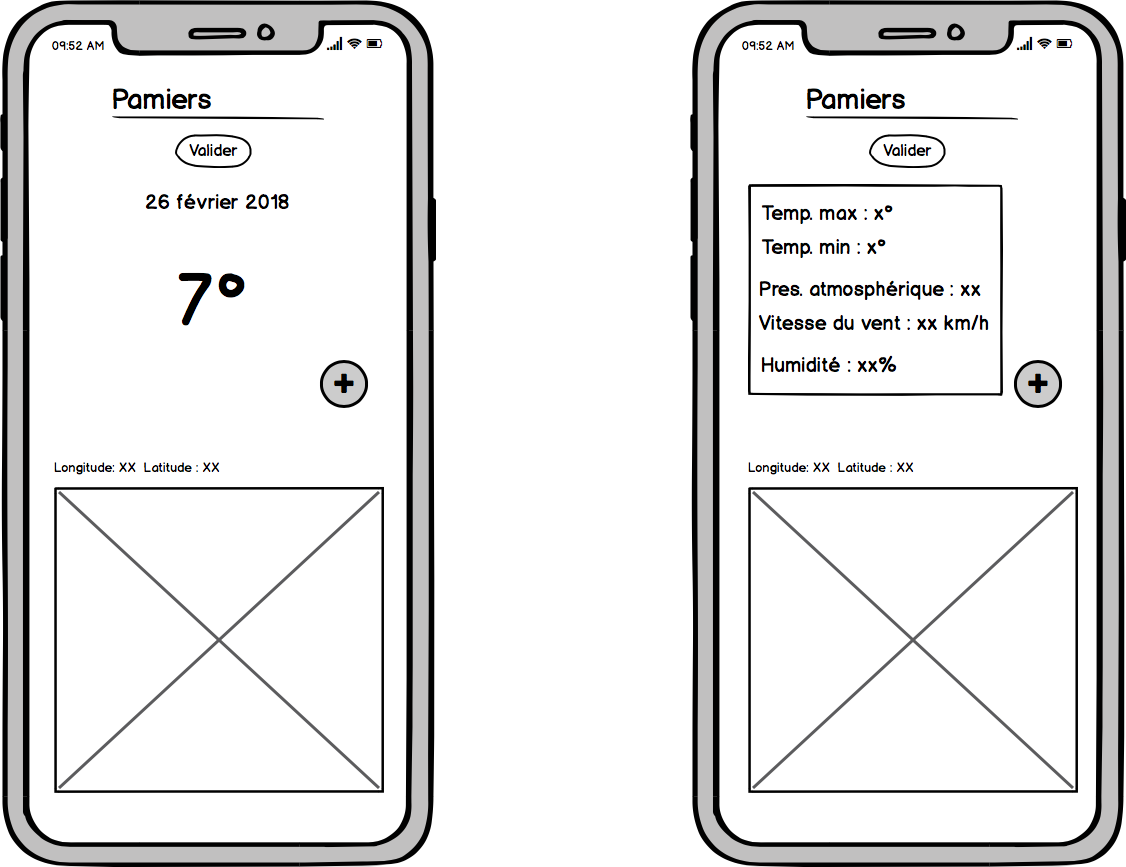
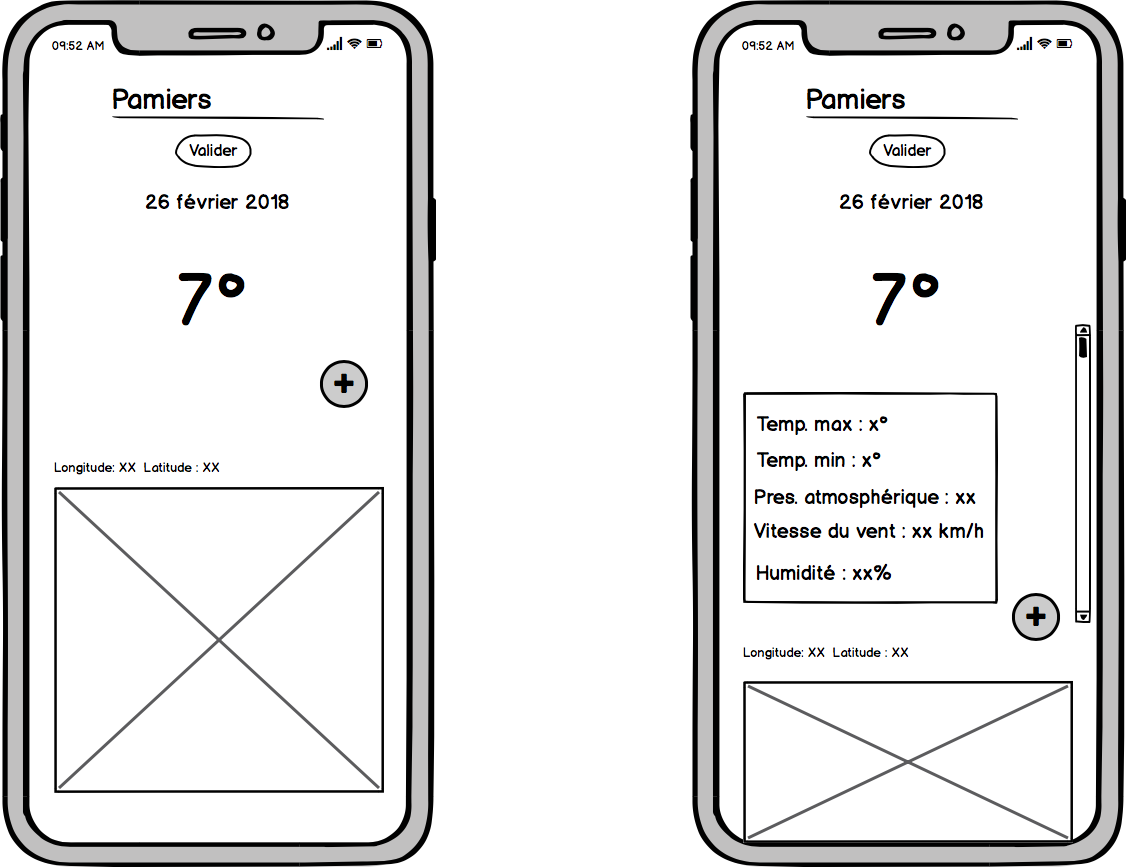
mise en place du responsive

Changed region(s): [[0.6528, 0.1869, 0.9947, 0.9965], [0.746, 0.8408, 0.7771, 0.872]]

diff --git a/JS/app.js b/JS/app.js
@@ -1,0 +1,65 @@
+// Date qui se met à jour
+moment.locale("fr");
+$("#date").text(moment().format('LL'));
+
+// Afficher la carte et la position
+$("#valider").click(function() {
+  var ville = $("#ville").val();
+  if (ville != ' ') {
+      $.ajax({
+          url: "http://api.openweathermap.org/data/2.5/weather?q="+ ville +"&units=metric&lang=fr&appid=a98ee53cd7e7fdf70c48f4e96d5e60da",
+          type: "Get",
+          dataType: "jsonp",
+          success: function (data) {
+            var resultat = "http://api.openweathermap.org/data/2.5/weather?q="+ ville +"&units=metric&lang=fr&appid=a98ee53cd7e7fdf70c48f4e96d5e60da"
+              window.fetch(resultat)
+                  .then(reponse => reponse.json())
+                  .then(reponseJson => $("#temperature").text(parseInt(reponseJson.main.temp)))
+
+              window.fetch(resultat)
+                  .then(reponse => reponse.json())
+                  .then(reponseJson => $("#tempMax").text(reponseJson.main.temp_max))
+
+              window.fetch(resultat)
+                  .then(reponse => reponse.json())
+                  .then(reponseJson => $("#tempMin").text(reponseJson.main.temp_min))
+
+              window.fetch(resultat)
+                  .then(reponse => reponse.json())
+                  .then(reponseJson => $("#presAtmos").text(reponseJson.main.pressure))
+
+              window.fetch(resultat)
+                  .then(reponse => reponse.json())
+                  .then(reponseJson => $("#vent").text(reponseJson.wind.speed))
+
+              window.fetch(resultat)
+                  .then(reponse => reponse.json())
+                  .then(reponseJson => $("#humidite").text(reponseJson.main.humidity))
+
+              window.fetch(resultat)
+                  .then(reponse => reponse.json())
+                  .then(reponseJson => $("#longitude").text(reponseJson.coord.lon))
+
+              window.fetch(resultat)
+                  .then(reponse => reponse.json())
+                  .then(reponseJson => $("#latitude").text(reponseJson.coord.lat))
+          }
+      });
+  }
+
+});
+
+
+
+$("#btnadd").hide();
+
+$(function() { 
+	var windowWidth= $(window).width();
+	if($(window).width () < 700){
+        $("#donneesMeteo").hide();
+        $("#btnadd").show();
+        $("#btnadd").click(function() {
+            $("#donneesMeteo").toggle();
+        });
+    }   
+});

diff --git a/index.html b/index.html
@@ -5,7 +5,6 @@
     <title>WeatherMap</title>
     <meta http-equiv="Content-Type" content="text/html; charset=iso-8859-1" />
     <meta name="viewport" content="width=device-width, initial-scale=1">
-    <meta name="viewport" content="initial-scale=1.0, user-scalable=no" />
     <link rel="stylesheet" href="https://cdnjs.cloudflare.com/ajax/libs/materialize/0.100.2/css/materialize.min.css">
     <link rel="stylesheet" type="text/css" href="CSS/index.css" />
 </head>
@@ -29,18 +28,20 @@
                 <p>Vitesse du vent : <span id="vent"></span> km/h</p>
                 <p>Humidité : <span id="humidite"></span> %</p>
             </div>
-        </div>
-        
+        </div>    
+    </div>
+    <div class="container">
+        <a class="btn-floating btn-large waves-effect waves-light" id="btnadd"><i class="material-icons">+</i></a>
     </div>
     
     <div class="container" id="carte">
         <p>Longitude : <span id="longitude"></span> &nbsp; &nbsp; &nbsp;Latitude : <span id="latitude"></span></p>
-        <iframe src="http://{s}.maps.owm.io:8099/5a956bbe6b678e000159daea/{z}/{x}/{y}?hash=3f47360e8e474eae28354f25aa731948"></iframe>
+        
     </div>
     <script type="text/javascript" src="https://ajax.googleapis.com/ajax/libs/jquery/3.1.0/jquery.min.js"></script>
     <script src="https://cdnjs.cloudflare.com/ajax/libs/materialize/0.100.2/js/materialize.min.js"></script>
-    <!-- <script async defer src="https://maps.googleapis.com/maps/api/js?key=AIzaSyBfTBVZ42XfpGFh9I-L8H9x1bi9hZKI0nU&callback=initMap" type="text/javascript"></script> -->
+    <script async defer src="https://maps.googleapis.com/maps/api/js?key=AIzaSyBfTBVZ42XfpGFh9I-L8H9x1bi9hZKI0nU&callback=initMap" type="text/javascript"></script>
     <script src="JS/moment.js"></script>
-    <script src="JS/script.js"></script>
+    <script src="JS/app.js"></script>
 </body>
 </html>

diff --git a/CSS/index.css b/CSS/index.css
@@ -6,6 +6,15 @@ body {
     color: white;
 }
 
+@media (max-width: 700px){
+    .row .col.s6  {
+       width: 100%;
+    }
+    #donneesMeteo {
+        display: none;
+    }
+}
+
 
 /* input */
 #identification_ville {
@@ -37,7 +46,6 @@ body {
 }
 
 h1 {
-    /* margin-left: 30%; */
     text-align: center;
     font-size: 150px;
     font-weight:lighter;
@@ -45,6 +53,10 @@ h1 {
 
 #donneesMeteo {
     margin-right: 30%;
+}
+
+#btnadd {
+    margin-left: 70%;
 }
 
 
